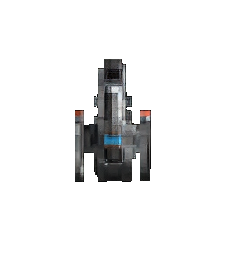
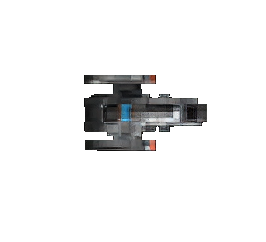
Movement furthered!

Changed region(s): [[0.2893, 0.2025, 0.781, 0.6942]]

diff --git a/Weapons.py b/Weapons.py
@@ -1,36 +1,60 @@
 import pygame
+import math
 
 
-class Bullet(pygame.sprite.Sprite):
-    def __init__(self, x, y, direction):
-        super().__init__()
+class Square:
+    def __init__(self, color, x, y, width, height, speed):
+        self.rect = pygame.Rect(x,y,width,height)
+        self.color = color
+        self.direction = 'E'
+        self.speed = speed
+
+    def move(self):
+        if self.direction == 'E':
+            self.rect.x = self.rect.x+self.speed
+        if self.direction == 'W':
+            self.rect.x = self.rect.x-self.speed
+        if self.direction == 'N':
+            self.rect.y = self.rect.y-self.speed
+        if self.direction == 'S':
+            self.rect.y = self.rect.y+self.speed
+
+    def moveDirection(self, direction):
+        if direction == 'E':
+            self.rect.x = self.rect.x+self.speed
+        if direction == 'W':
+            self.rect.x = self.rect.x-self.speed
+        if direction == 'N':
+            self.rect.y = self.rect.y-self.speed
+        if direction == 'S':
+            self.rect.y = self.rect.y+self.speed
+
+    def collided(self, other_rect):
+        #Return True if self collided with other_rect
+        return self.rect.colliderect(other_rect)
+
+    def draw(self, surface):
+        pygame.draw.rect(surface, self.color, self.rect)
+
+
+class Bullet(Square):
+    def __init__(self, color, x, y, width, height, speed, targetx,targety):
+        super().__init__(color, x, y, width, height, speed)
+        angle = math.atan2(targety-y, targetx-x) #get angle to target in radians
+        print('Angle in degrees:', int(angle*180/math.pi))
+        self.dx = math.cos(angle)*speed
+        self.dy = math.sin(angle)*speed
         self.x = x
         self.y = y
-        self.image = pygame.Surface((0, 0))
-        self.rect = self.image.get_rect(center = (self.x, self.y))
-        self.direction = direction 
-        self.speed = 10
-
-    def update(self):
-
-        if self.direction == "up":
-            self.image = pygame.Surface((5, 25))
-            self.image.fill((0, 200, 0))
-            self.y -= self.speed
-        elif self.direction == "down":
-            self.image = pygame.Surface((5, 25))
-            self.image.fill((0, 200, 0))
-            self.y += self.speed
-        elif self.direction == "left":
-            self.image = pygame.Surface((25, 5))
-            self.image.fill((0, 200, 0))
-            self.x -= self.speed
-        elif self.direction == "right":
-            self.image = pygame.Surface((25, 5))
-            self.image.fill((0, 200, 0))
-            self.x += self.speed
-
-        self.rect.center = (self.x, self.y)
+    #Override
+    def move(self):
+        #self.x and self.y are floats (decimals) so I get more accuracy
+        #if I change self.x and y and then convert to an integer for
+        #the rectangle.
+        self.x = self.x + self.dx
+        self.y = self.y + self.dy
+        self.rect.x = int(self.x)
+        self.rect.y = int(self.y)
 
         if self.rect.right < (0 - 100) or self.rect.left > pygame.display.get_surface().get_width() + 100 or self.rect.top > pygame.display.get_surface().get_height() + 100 or self.rect.bottom < (0 - 100):
             self.kill()

diff --git a/Entities.py b/Entities.py
@@ -1,4 +1,6 @@
 import pygame
+import math
+import Weapons, Timings
 
 
 class Player(pygame.sprite.Sprite):
@@ -8,7 +10,7 @@ class Player(pygame.sprite.Sprite):
         self.original_image = pygame.image.load("./images/Danube_Runabout.png").convert()
         self.image = self.original_image  # This will reference our rotated image.
         self.rect = self.image.get_rect().move(pos)
-        self.angle = 1
+        self.angle = 0
         self.speed = 0
 
     def update(self):
@@ -34,10 +36,25 @@ class Player(pygame.sprite.Sprite):
             if self.speed < 10:
                 self.speed += 1
             print(self.speed)
+        
+        # If the player is pressing the down key, decrease the player's speed.
+        if key[pygame.K_DOWN]:
+            # If the player's speed is greater than 0.
+            if self.speed > 0:
+                self.speed -= 1
+            print(self.speed)
 
     def create_bullet(self):
             # Get the center of the player sprite.
             center_x, center_y = self.rect.center
 
             # Spawn a bullet in the direction the player is facing.
-            return Bullet(center_x, center_y, self.angle)
+            return Weapons.Bullet(center_x, center_y, self.angle, 2, 2, 10, 200, 200)
+
+    def move_forward(self):
+        # Calculate the new position of the player based on the angle and speed
+        radians = math.radians(self.angle)
+        dx = self.speed * math.cos(radians)
+        dy = self.speed * math.sin(radians)
+        self.rect.x += dx
+        self.rect.y -= dy

diff --git a/Main.py b/Main.py
@@ -3,7 +3,7 @@ import sys
 import time
 import Weapons, Entities
 
-# Basics
+# Basics.
 pygame.init()
 clock = pygame.time.Clock()
 screen_width, screen_height = 800, 600
@@ -26,9 +26,9 @@ while True:
             pygame.quit()
             sys.exit()
 
-        # If keydown event is space, create a bullet
+        # If keydown event is space, create a bullet.
         if event.type == pygame.KEYDOWN:
-            # If the player presses space and the user event is not already firing
+            # If the player presses space and the user event is not already firing.
             if event.key == pygame.K_SPACE:
                 
                 # Generate a bullet.
@@ -43,6 +43,10 @@ while True:
                 if time_since_last_bullet >= 0.5:
                     bullet_group.add(bullet)
                     last_bullet_time = time.time()
+
+            # If the player is holding down the W key, move the player forward
+            if event.key == pygame.K_UP:
+                player.move_forward()
 
     # Drawing
     screen.fill((0, 0, 0))

diff --git a/Test.py b/Test.py
@@ -1,0 +1,19 @@
+import matplotlib.pyplot as plt
+import numpy as np
+
+# Create a figure and axis
+fig, ax = plt.subplots()
+
+# Set the x and y limits
+ax.set_xlim(-1.1, 1.1)
+ax.set_ylim(-1.1, 1.1)
+
+# Plot a line for each degree in 360 degrees
+for angle in range(360):
+    radians = np.radians(angle)
+    x = np.cos(radians)
+    y = np.sin(radians)
+    ax.plot([0, x], [0, y], '-', color='gray', alpha=0.5)
+
+# Show the plot
+plt.show()

diff --git a/Timings.py b/Timings.py
@@ -1,0 +1,10 @@
+import time
+
+class Timer:
+    def __init__(self, interval):
+        self.interval = interval
+        self.time_set = time.time()
+        self.time_since = 0
+
+    def update(self):
+        self.time_since = time.time() - self.time_set
